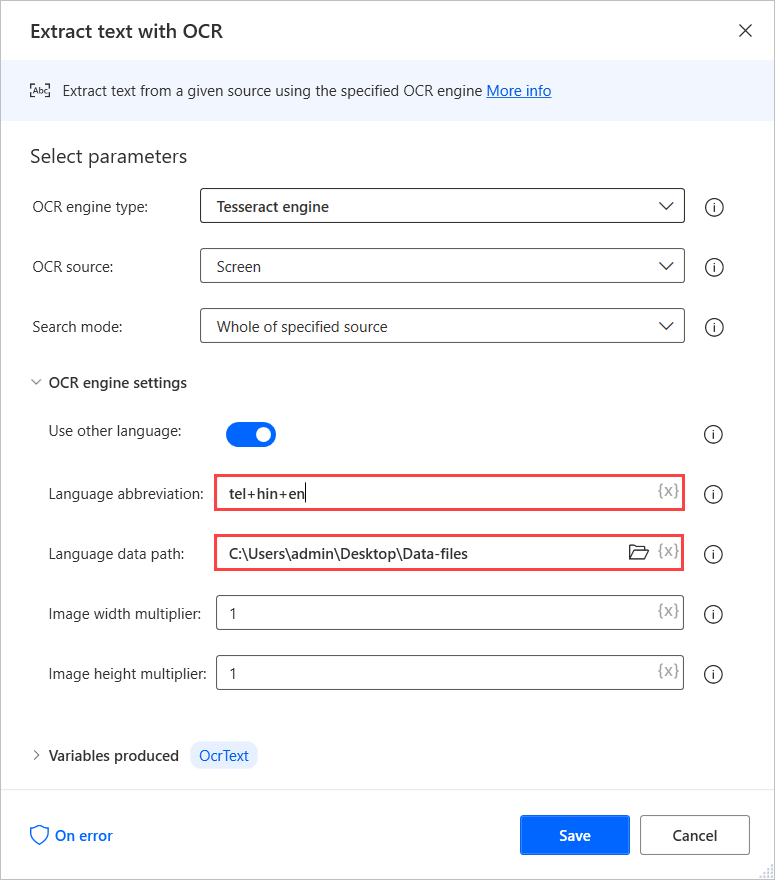
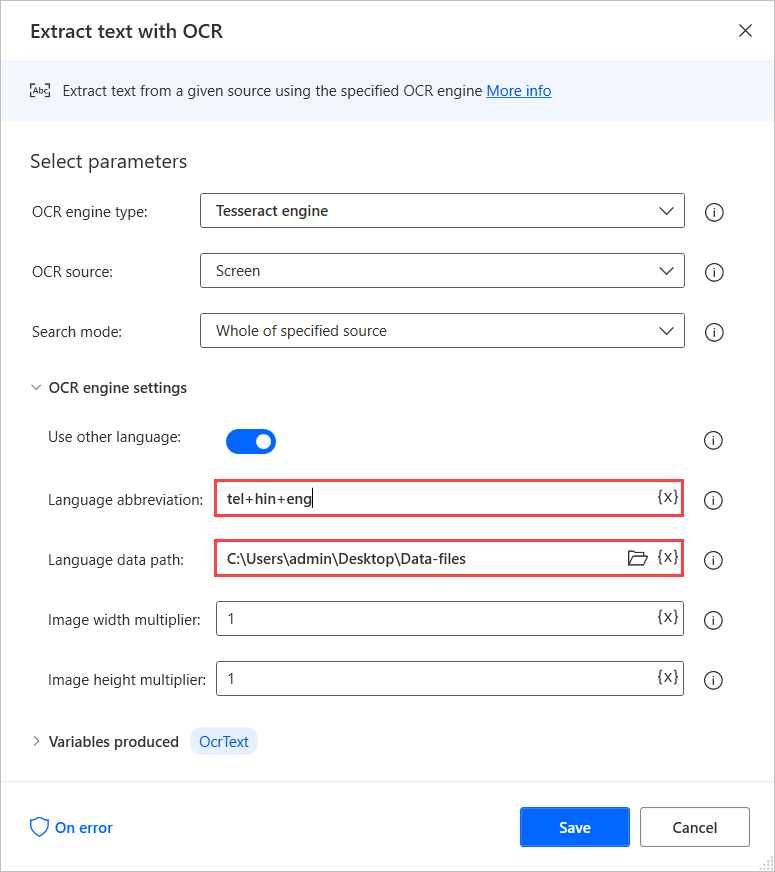
Updated content in images how tos

diff --git a/articles/desktop-flows/how-to/ocr-multilingual-documents.md b/articles/desktop-flows/how-to/ocr-multilingual-documents.md
@@ -27,15 +27,15 @@ To perform OCR on these sources, use a Tesseract engine in the respective OCR ac
 When the **Use other languages** option is enabled, the action displays two additional settings: the **Language abbreviation** and **Language data path** fields.
 
 The **Language abbreviation** field indicates to the engine which language to look for during OCR. 
-The **Language data path** field contains the language data files used to train the OCR engine.
-
-> [!NOTE]
-> You can download the Tesseract OCR data files from [this GitHub repository](https://github.com/tesseract-ocr/tessdata/) or [this page](https://tesseract-ocr.github.io/tessdoc/Data-Files).
+The **Language data path** field contains the language data files (**.traineddata**) used to train the OCR engine.
 
 ![The Language abbreviation and Language data path fields in the Exctract text witg OCR action.](media/ocr-multilingual-documents/language-abbreviation-extract-text-ocr-action.png)
 
 After downloading the data files for the needed languages, move them to a common folder to make them available under the same path.
 
-Next, select the  created folder in the **Language data path** field, and populate the corresponding language codes in the **Language abbreviation** field. To separate the language codes, use the plus character (**+**).
+Next, select the created folder in the **Language data path** field, and populate the corresponding language codes in the **Language abbreviation** field. To separate the language codes, use the plus character (**+**).
+
+> [!NOTE]
+> You can find all the available language codes in the source of the language data files. In the following example, the used codes represent Telugu, Hindi, and English.
 
 ![The populated Language abbreviation and Language data path fields in the Exctract text witg OCR action.](media/ocr-multilingual-documents/populated-language-abbreviation-extract-text-ocr-action.png)

diff --git a/articles/desktop-flows/how-to/print-images.md b/articles/desktop-flows/how-to/print-images.md
@@ -24,11 +24,17 @@ To print an image file, create a batch script that launches Microsoft Paint and 
 > Before saving the script, replace the **Image_Path** placeholder with the file path of the image you want to print.
 
 ```
-@echo off
+@echo off+
 
 title Print Images
 
+
+rem The following command launches Microsoft Paint and prints the selected file using the default printer.
+
 mspaint /p "Image_Path"
+
+
+rem The following command ends the Microsoft Paint process. 
 
 taskkill /IM "mspaint.exe"
 ```
